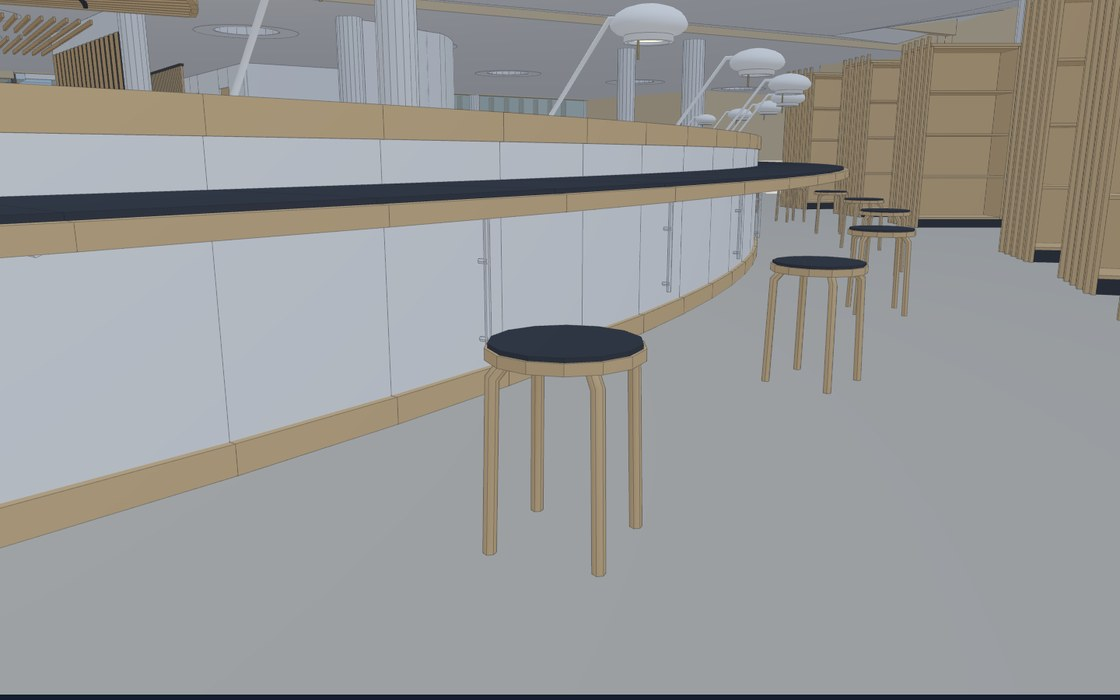
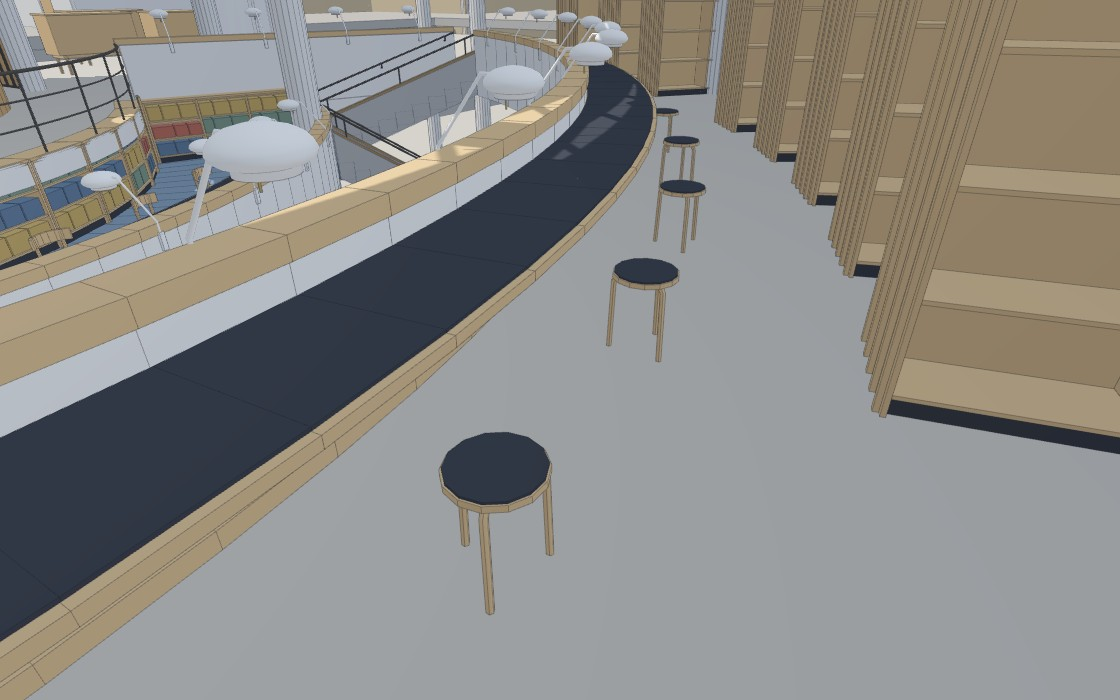
fix(furniture): re-render Stool 60 close-up with recorded camera; add capture_furniture_renders.py

diff --git a/scripts/capture_furniture_renders.py b/scripts/capture_furniture_renders.py
@@ -1,0 +1,124 @@
+#!/usr/bin/env python3
+"""Capture the furniture close-up renders used on ``docs/furniture.html``.
+
+Each close-up has a recorded camera so it can be re-shot whenever the model
+changes. Only shots listed in ``FURNITURE_SHOTS`` can be regenerated; the other
+``docs/furniture/render_0*.jpg`` images predate recorded cameras.
+
+Usage::
+
+    uv run --offline --no-project --with pillow python3 scripts/capture_furniture_renders.py
+    uv run --offline --no-project --with pillow python3 scripts/capture_furniture_renders.py --only 03
+"""
+
+from __future__ import annotations
+
+import argparse
+import functools
+import http.server
+import socketserver
+import subprocess
+import sys
+import tempfile
+import threading
+from pathlib import Path
+
+sys.path.insert(0, str(Path(__file__).resolve().parent))
+from capture_studio_renders import SCENE_JSON, find_browser_bin
+
+REPO_ROOT = Path(__file__).resolve().parent.parent
+DOCS_DIR = REPO_ROOT / "docs"
+
+# Camera convention (library-3d.html): eye = target + dist·(cos p·cos y, cos p·sin y, sin p),
+# metres, +X East, +Y North, Level 3 floor = 0.
+FURNITURE_SHOTS = [
+    {
+        "id": "03",
+        "out": "furniture/render_03_stool60.jpg",
+        "desc": "Three-legged Artek Stool 60s along the Level 3 curved workbench",
+        "tx": -2.85, "ty": 14.45, "tz": 0.1,
+        "yaw": 0.60, "pitch": 0.52, "dist": 3.3, "fov": 58,
+        "doy": 172, "hour": 10,
+        "width": 1120, "height": 700,
+    },
+]
+
+
+def main() -> int:
+    parser = argparse.ArgumentParser(description=__doc__.splitlines()[0])
+    parser.add_argument("--only", nargs="*", default=None, help="Shot ids, e.g. 03")
+    parser.add_argument("--budget", type=int, default=15000)
+    parser.add_argument("--retries", type=int, default=3)
+    args = parser.parse_args()
+
+    from PIL import Image
+
+    browser_bin = find_browser_bin()
+    if not browser_bin:
+        print("No headless Chromium binary found.", file=sys.stderr)
+        return 1
+
+    shots = [s for s in FURNITURE_SHOTS if not args.only or s["id"] in args.only]
+    served: list[str] = []
+
+    class TrackingHandler(http.server.SimpleHTTPRequestHandler):
+        def log_message(self, format: str, *args) -> None:
+            pass
+
+        def do_GET(self) -> None:
+            super().do_GET()
+            served.append(self.path.split("?", 1)[0])
+
+    class QuietTCPServer(socketserver.ThreadingTCPServer):
+        allow_reuse_address = True
+        daemon_threads = True
+
+        def handle_error(self, request, client_address) -> None:
+            pass
+
+    failures = []
+    handler = functools.partial(TrackingHandler, directory=str(DOCS_DIR))
+    with QuietTCPServer(("127.0.0.1", 0), handler) as httpd, tempfile.TemporaryDirectory() as tmp:
+        port = httpd.server_address[1]
+        threading.Thread(target=httpd.serve_forever, daemon=True).start()
+
+        for s in shots:
+            w, h = s["width"], s["height"]
+            query = "&".join(
+                f"{k}={s[k]}" for k in ("tx", "ty", "tz", "yaw", "pitch", "dist", "fov", "doy", "hour")
+            )
+            url = (
+                f"http://127.0.0.1:{port}/library-3d.html?{query}"
+                f"&studio=1&hud=0&hide=0_Regulating_Grid&w={w}&h={h}"
+            )
+            png = Path(tmp) / f"{s['id']}.png"
+            ok = False
+            for attempt in range(1, args.retries + 1):
+                served.clear()
+                cmd = [
+                    browser_bin, "--headless=new", "--hide-scrollbars", "--no-sandbox", "--enable-webgl",
+                    "--ignore-gpu-blocklist", "--use-gl=angle", "--use-angle=swiftshader",
+                    f"--window-size={w},{h + 100}", f"--virtual-time-budget={args.budget * attempt}",
+                    f"--screenshot={png}", url,
+                ]
+                subprocess.run(cmd, stdout=subprocess.DEVNULL, stderr=subprocess.DEVNULL, check=False)
+                if png.is_file() and SCENE_JSON in served:
+                    ok = True
+                    break
+                print(f"  retry {s['id']} (attempt {attempt} failed)")
+            if not ok:
+                failures.append(s["id"])
+                print(f"FAILED  {s['out']}")
+                continue
+            out = DOCS_DIR / s["out"]
+            with Image.open(png) as im:
+                im.convert("RGB").crop((0, 0, w, h)).save(out, quality=90)
+            print(f"OK      {s['out']}  ({s['desc']})")
+
+        httpd.shutdown()
+
+    return 1 if failures else 0
+
+
+if __name__ == "__main__":
+    sys.exit(main())
